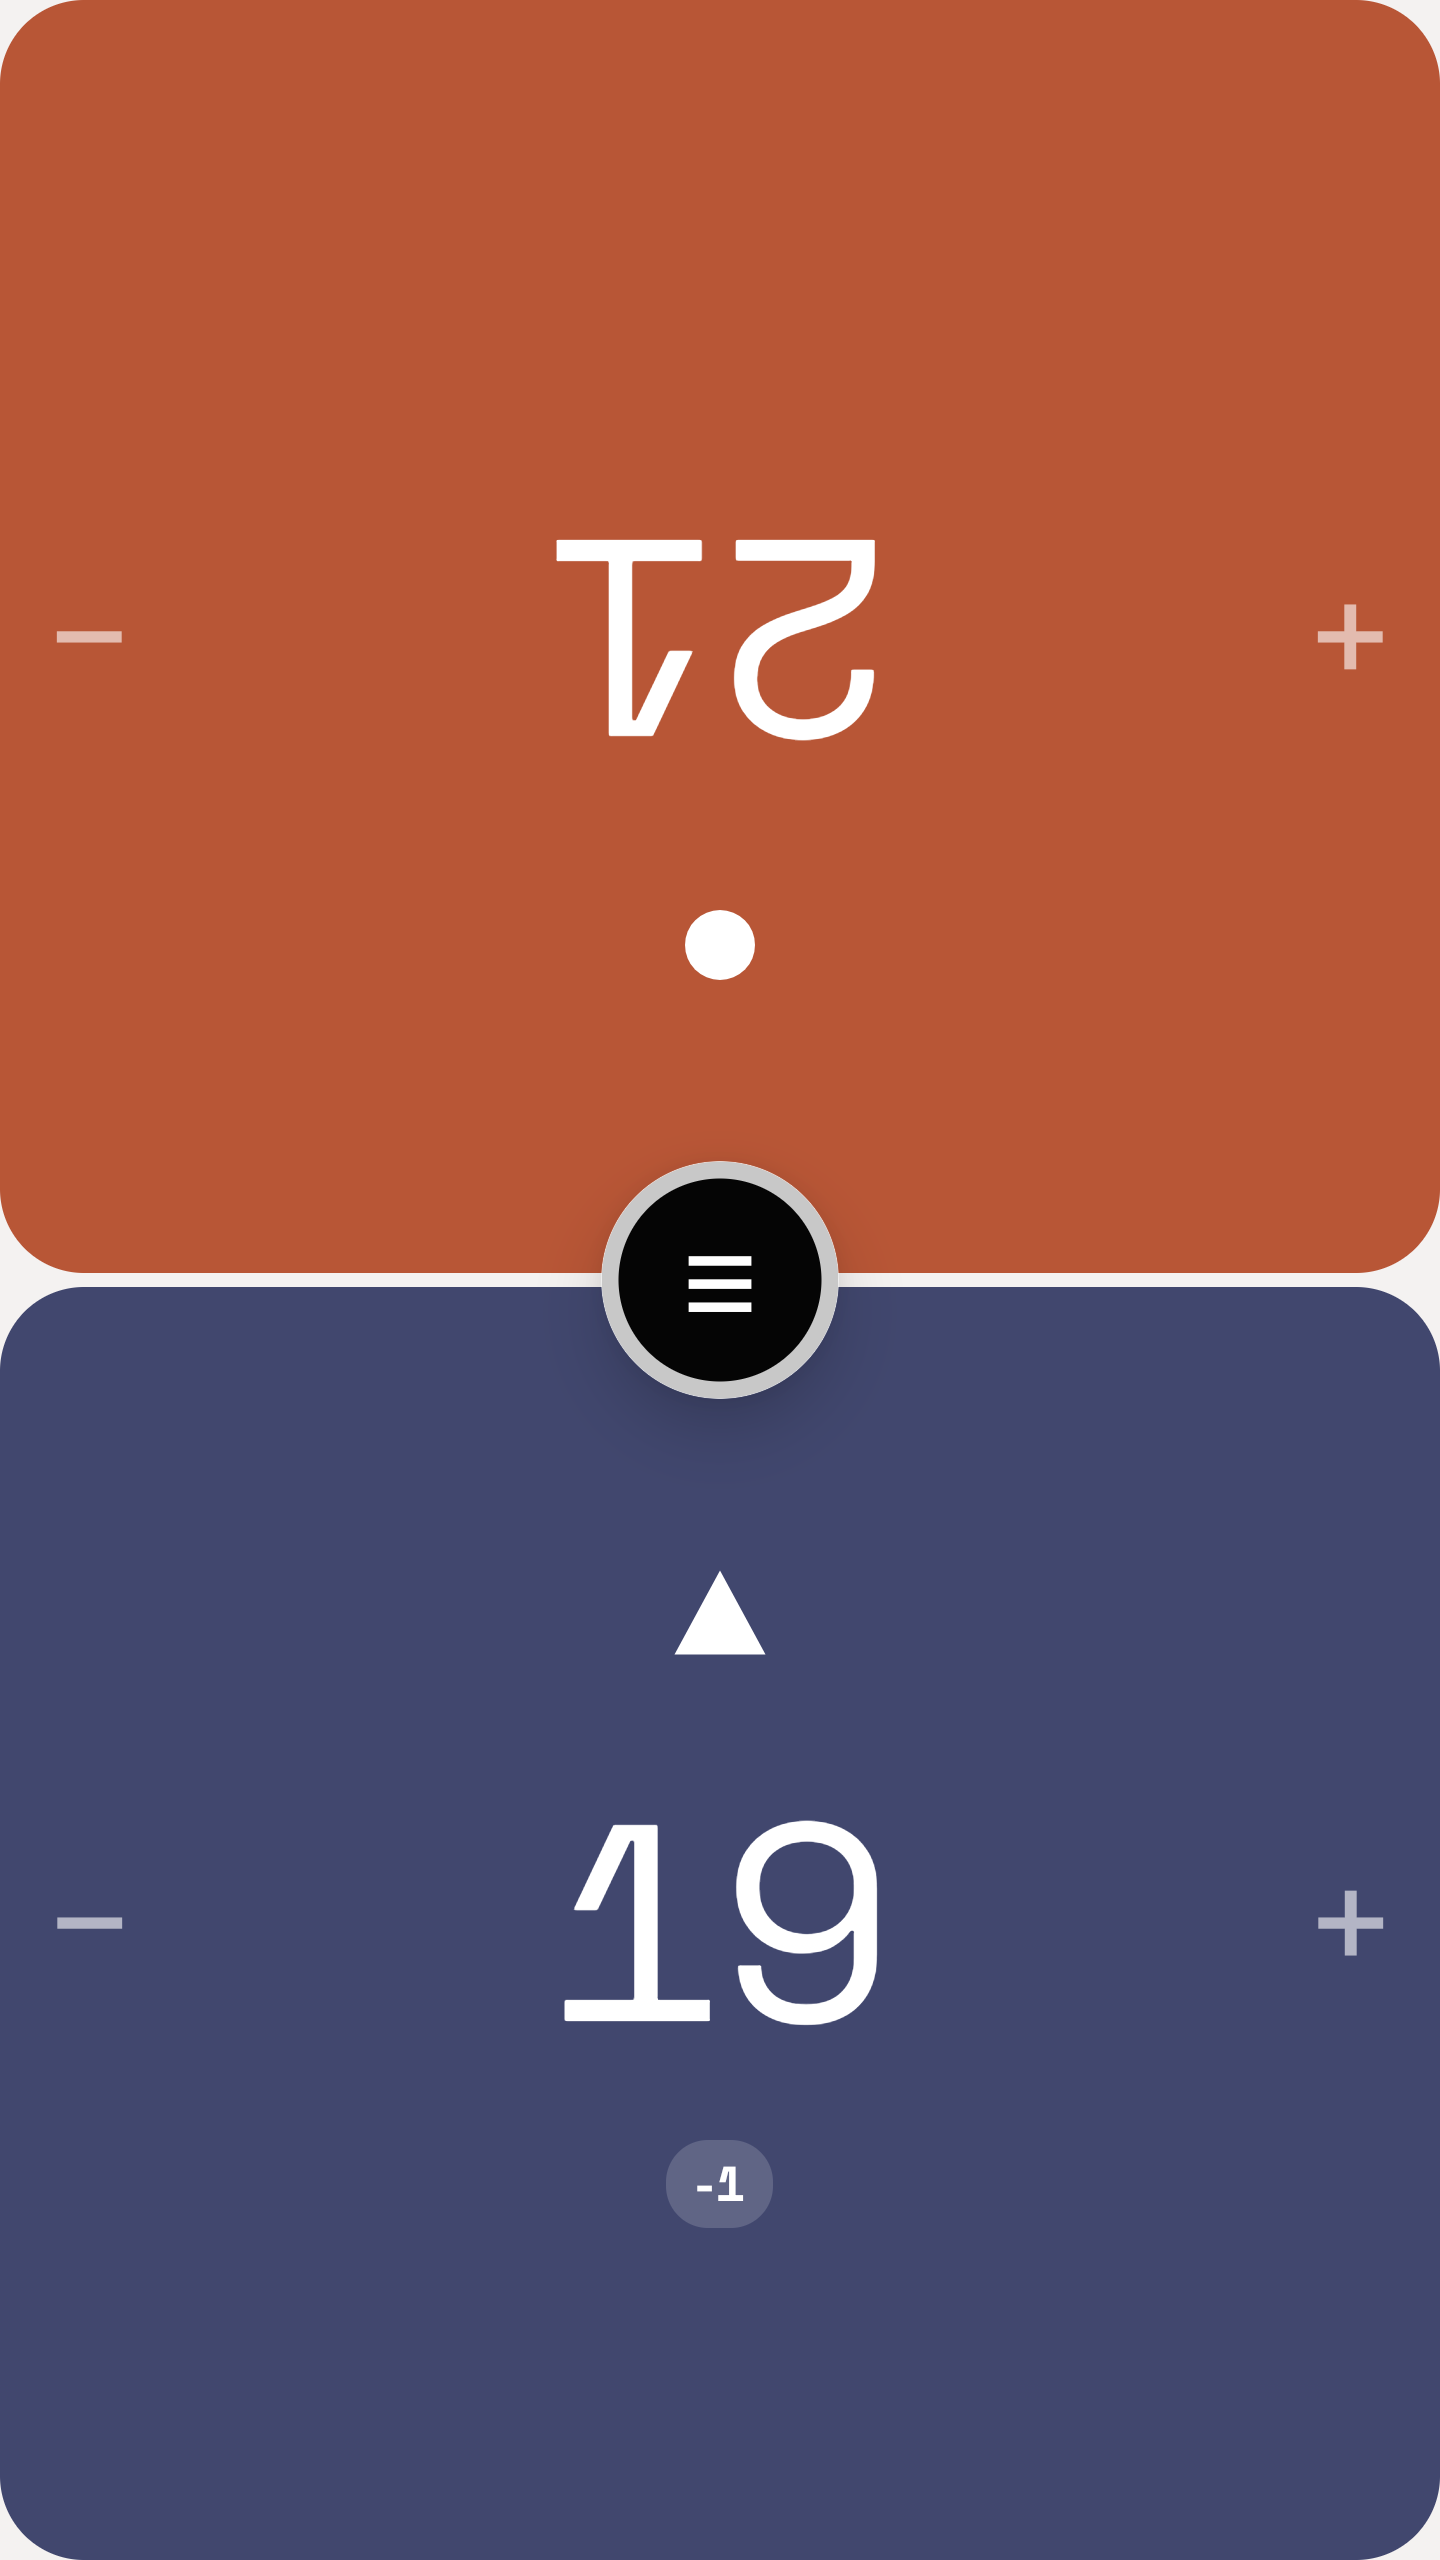
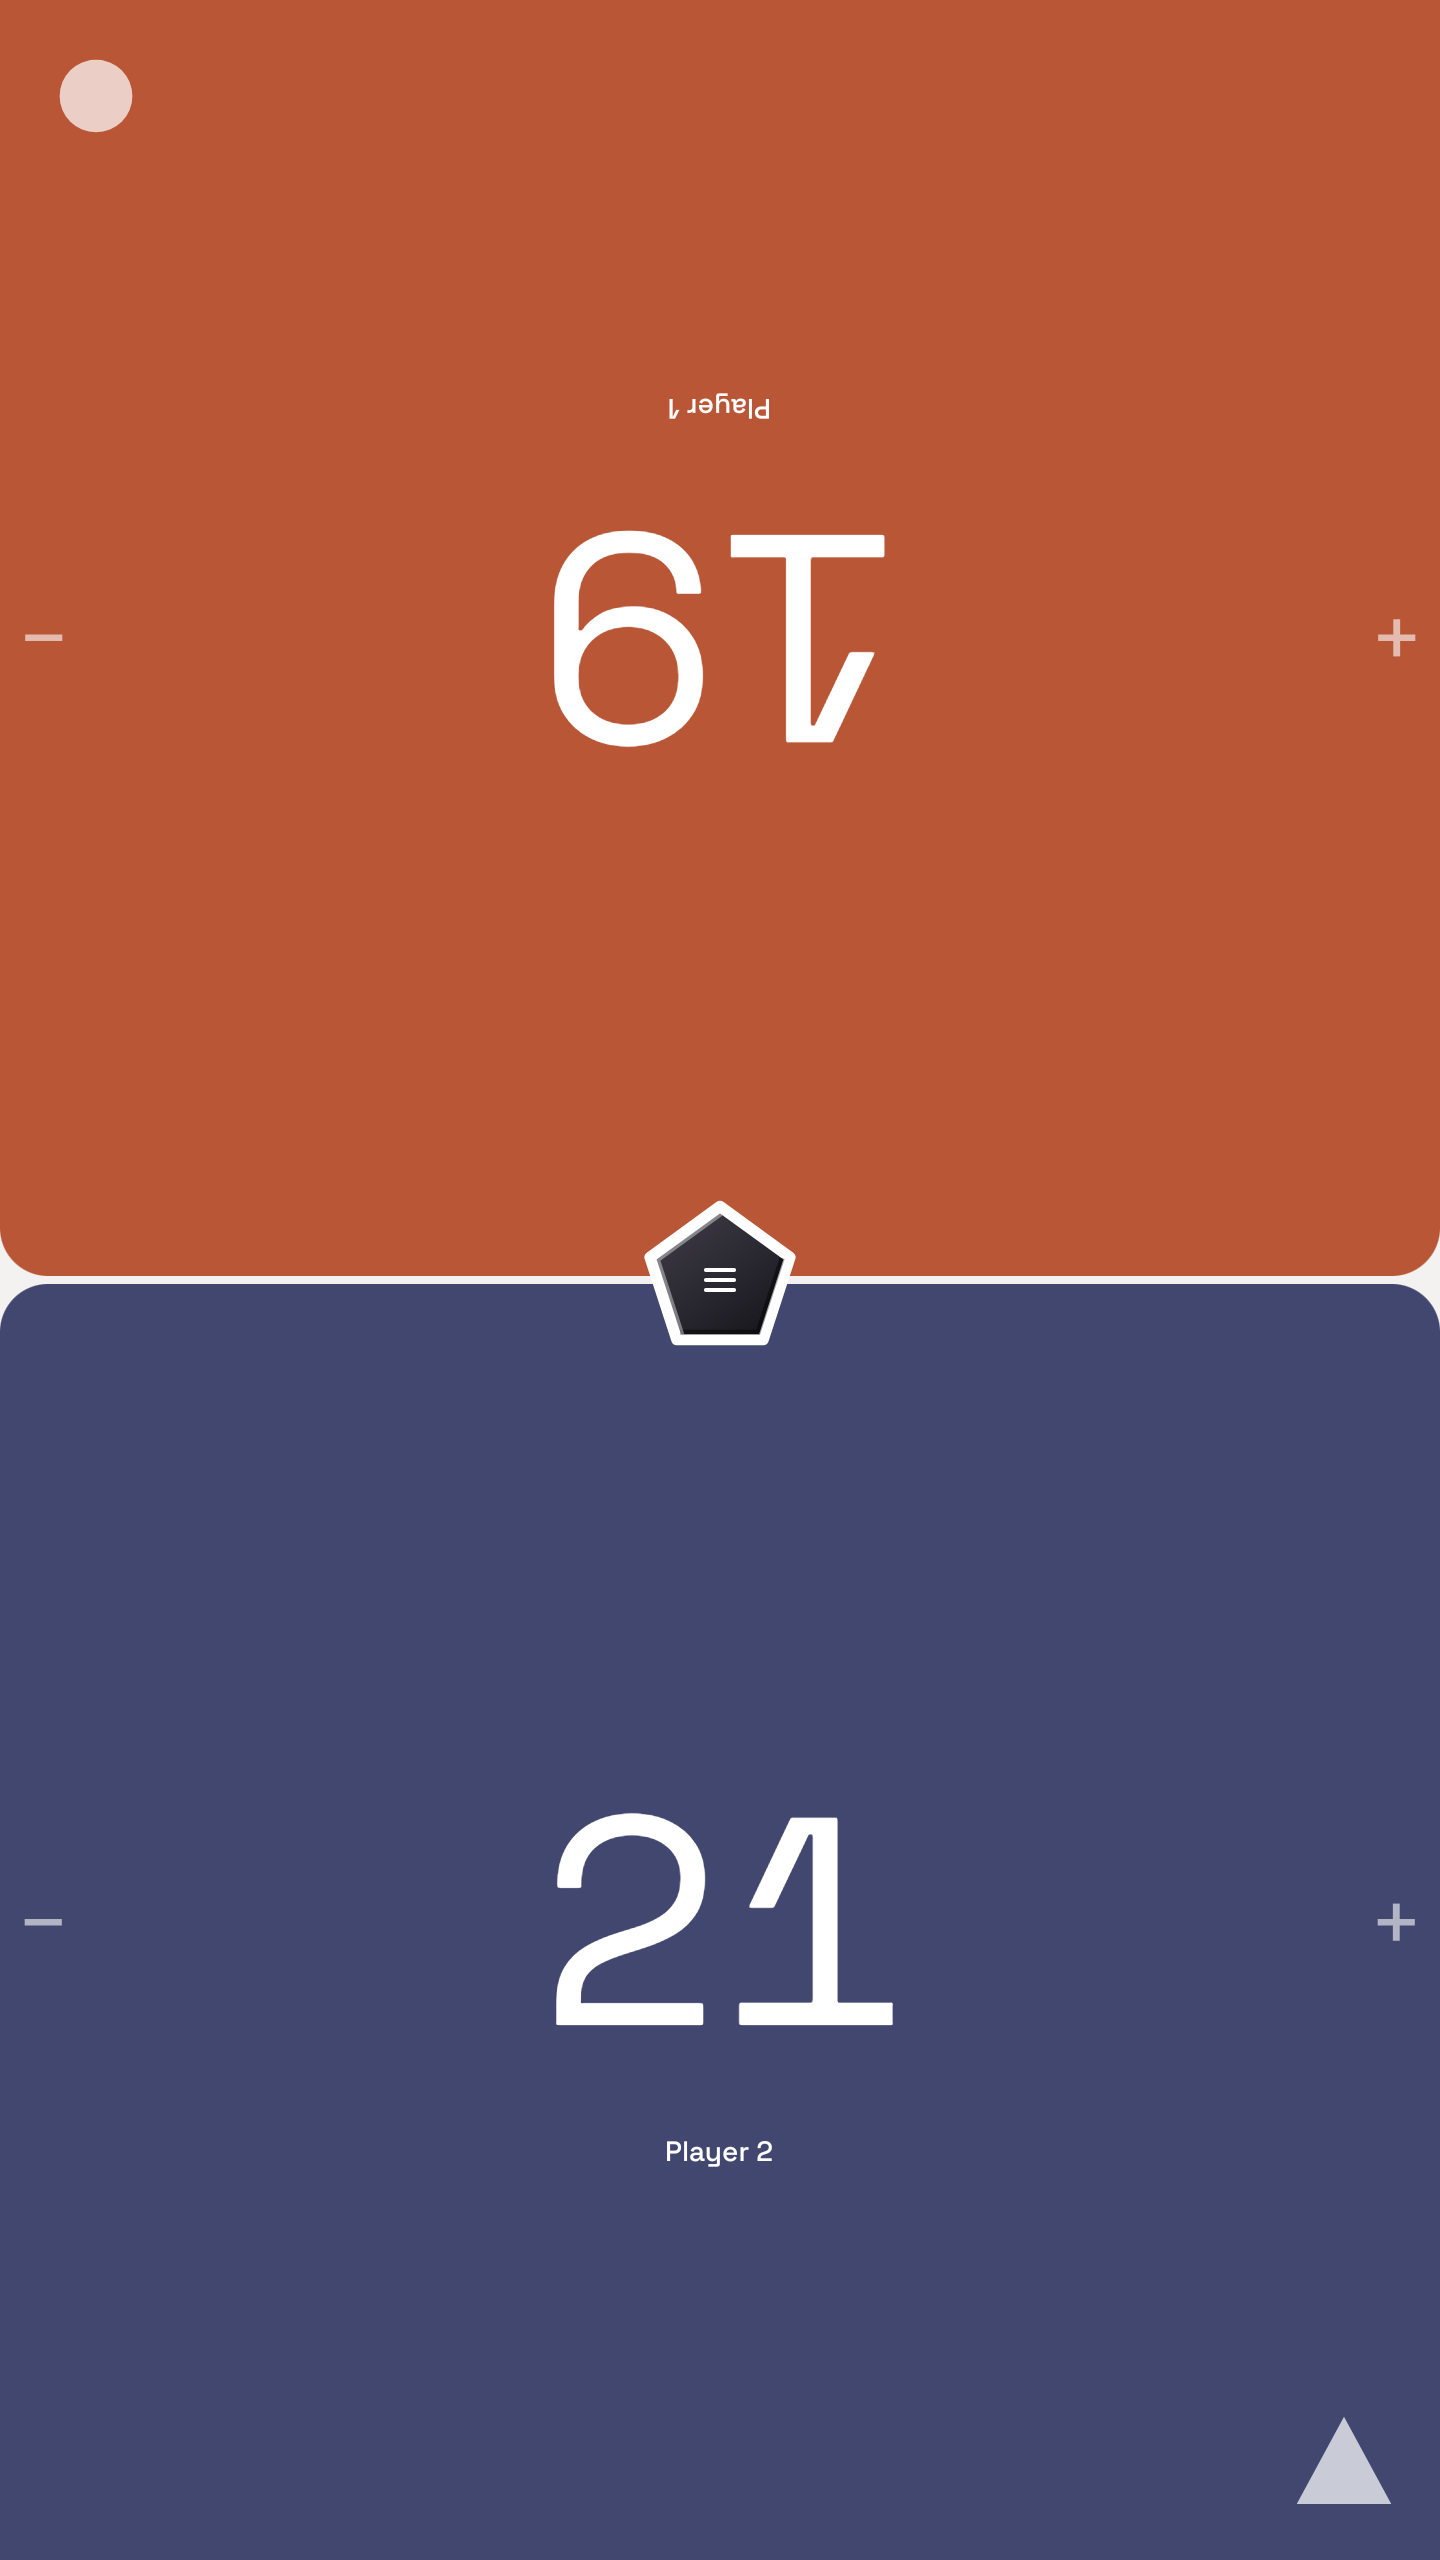
fix(store): reexport Google Play tablet assets

diff --git a/play-store-assets/README.md b/play-store-assets/README.md
@@ -1,6 +1,6 @@
 # Google Play visual assets
 
-These assets were captured from the production Android bundle on an Android emulator and visually reviewed before packaging.
+The phone and 7-inch assets were captured from the production Android bundle. The 10-inch assets were captured from the current development app on an Android 16 emulator at 1,440 × 2,560 pixels and 320 dpi. All were visually reviewed before packaging.
 
 ## Upload inventory
 
@@ -12,12 +12,13 @@ These assets were captured from the production Android bundle on an Android emul
 | 7-inch tablet screenshots | `tablet-7-inch/*.png` | 1,080 × 1,920 (9:16) |
 | 10-inch tablet screenshots | `tablet-10-inch/*.png` | 1,440 × 2,560 (9:16) |
 
-All files are PNGs and are comfortably below the Google Play file-size limits.
+All files are PNGs and are comfortably below the Google Play file-size limits. The feature graphic and 10-inch screenshots are opaque RGB PNGs.
 
 ## Notes
 
 - The app icon is a Scryve-specific mark based on the app's four-player board, controls, and production color palette. The launcher, adaptive Android, iOS, and web icon assets now use this mark; it will appear in the next application build.
 - Video is optional and is not included. A public or unlisted, ad-free, non-age-restricted YouTube upload is still needed if a promo video is desired.
 - Reproducible Maestro capture flows live in `.maestro/store-assets/`.
-- The final screenshot sets prioritize live 2-, 5-, and 6-player boards. The phone set also includes the six-player controls overlay.
+- The final screenshot sets prioritize live 2-, 5-, and 6-player boards. The phone set also includes the six-player controls overlay; the 10-inch set includes the new-game screen.
+- Before submission, compare the 10-inch screenshots with the release build to confirm the same UI is shipped.
 - Captures rejected during visual QA are retained in `working/` and are not intended for upload.

diff --git a/.maestro/store-assets/README.md b/.maestro/store-assets/README.md
@@ -6,6 +6,7 @@ The capture suite prioritizes the in-game board at three representative player c
 - `02-five-player-game.png`
 - `03-six-player-game.png`
 - `04-six-player-controls.png` (phone only)
+- `04-new-game-setup.png` (10-inch tablet only)
 
 `_CaptureGame.yaml` resets application state, creates the requested game, changes two life totals, waits for animations to settle, and captures the board. `CapturePhone.yaml` and `CaptureTablet.yaml` run that helper for 2, 5, and 6 players.
 
@@ -18,9 +19,9 @@ Run these against a dedicated emulator, always passing its ID explicitly:
 adb -s emulator-5554 shell wm size 1080x1920
 adb -s emulator-5554 shell wm density 420
 
-# 10-inch upload assets: 1440 × 2560
+# 10-inch upload assets: 1440 × 2560, 720dp logical width
 adb -s emulator-5554 shell wm size 1440x2560
-adb -s emulator-5554 shell wm density 560
+adb -s emulator-5554 shell wm density 320
 
 MAESTRO_APP_ID=com.sowinghope.count maestro test \
   --device emulator-5554 \
@@ -31,7 +32,7 @@ adb -s emulator-5554 shell wm size reset
 adb -s emulator-5554 shell wm density reset
 ```
 
-The current app has a large-logical-width layout defect: at lower tablet densities, five- and six-player cards render their marks and controls but omit the life-total numerals. The compact logical-density profiles above keep the real game board visible while producing Google Play-compliant pixel dimensions. Fix that responsive breakpoint before using native large-screen-density captures.
+The 10-inch set was verified at 320 dpi with visible life totals on the five- and six-player boards. The extra new-game screenshot was captured manually from the same emulator profile.
 
 ## Apple in-app purchase review screenshot
 
